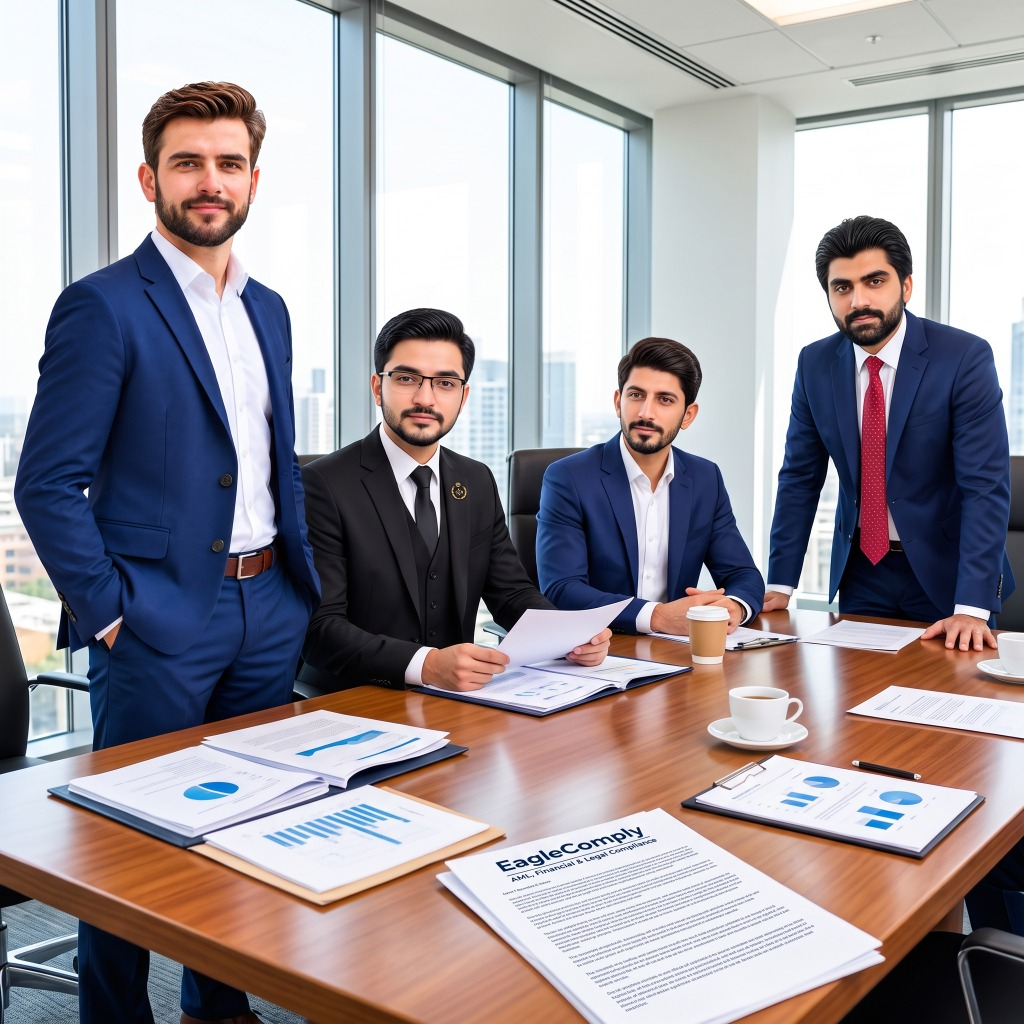
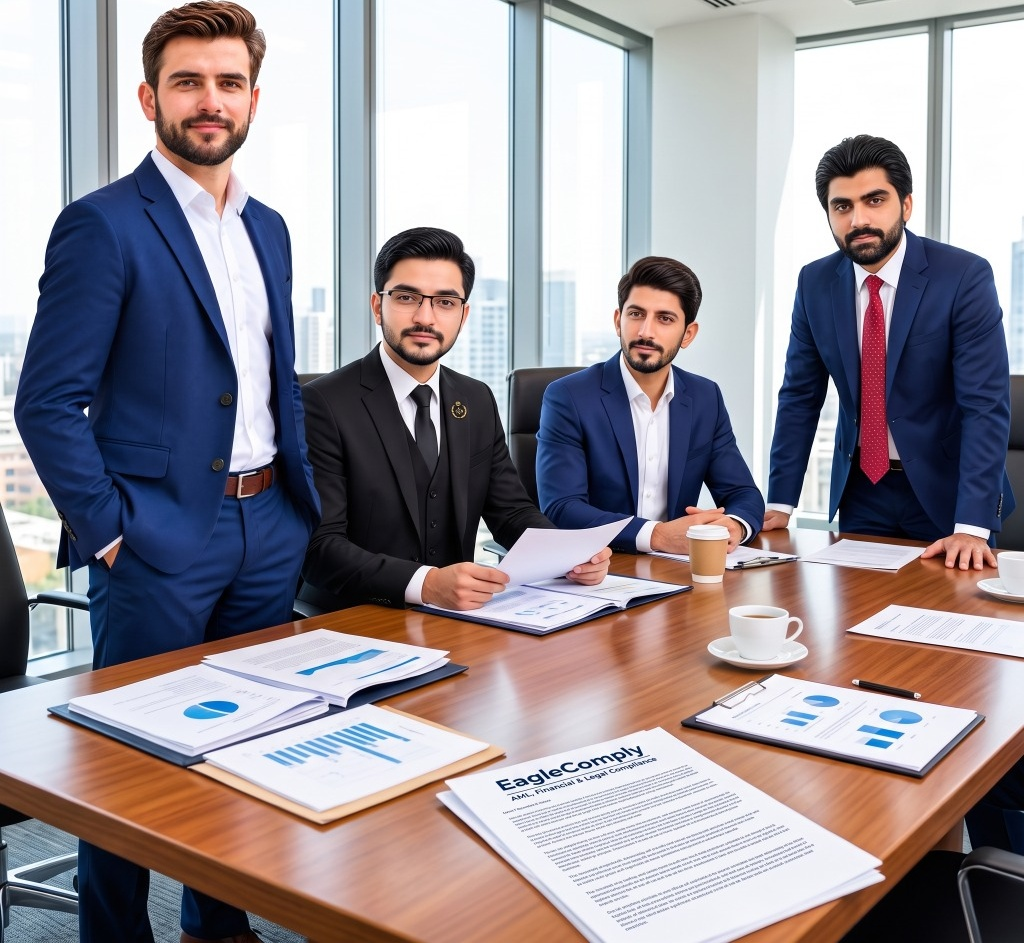
feat(team): update hero section with full-width boardroom background and optimized framing

diff --git a/src/pages/public/TeamPage.jsx b/src/pages/public/TeamPage.jsx
@@ -30,79 +30,36 @@ export default function TeamPage({ onNavigate, onOpenConsultation }) {
   return (
     <div className="w-full space-y-16 animate-fade-in">
       
-      {/* 1. Executive Hero Header with Team Boardroom Portrait */}
-      <section className="relative pt-6 pb-10 sm:pb-14 lg:pt-8 lg:pb-16 bg-surface-subtle/70 border-b border-surface-border overflow-hidden">
-        <div className="max-w-6xl mx-auto px-4 sm:px-6 lg:px-8">
-          <div className="grid grid-cols-1 lg:grid-cols-12 gap-8 lg:gap-12 items-center">
-            
-            {/* Left Content Column */}
-            <div className="lg:col-span-6 space-y-5 text-left rtl:text-right">
-              <div className="inline-flex items-center gap-2 px-3.5 py-1.5 rounded-full bg-[#334DAF]/10 dark:bg-[#7096D1]/15 text-[#334DAF] dark:text-[#7096D1] text-xs font-mono font-bold tracking-wider uppercase border border-[#334DAF]/20 dark:border-[#7096D1]/30">
-                <Users className="w-3.5 h-3.5" />
-                <span>OUR COMPLIANCE LEADERSHIP</span>
-              </div>
+      {/* 1. Full-Width Edge-to-Edge Background Hero Section */}
+      <section className="relative w-full min-h-[480px] sm:min-h-[540px] lg:min-h-[600px] flex items-center justify-center border-b border-[#1E3778] overflow-hidden">
+        
+        {/* Full-Cover Background Image Layer from Left to Right */}
+        <div className="absolute inset-0 w-full h-full z-0">
+          <img
+            src={`${import.meta.env.BASE_URL}assets/images/team-boardroom.jpg`}
+            alt="EagleComply Senior Practice Directors in Boardroom"
+            className="w-full h-full object-cover object-top"
+          />
+          {/* Executive Backdrop Overlay for Sharp Readable Text and Clear Visibility */}
+          <div className="absolute inset-0 bg-gradient-to-b from-[#091F5C]/80 via-[#091F5C]/45 to-[#091F5C]/85 backdrop-brightness-90" />
+        </div>
 
-              <h1 className="font-sans tracking-tight text-3xl sm:text-4xl lg:text-5xl font-bold text-slate-900 dark:text-white leading-[1.15]">
-                Senior Practice Directors & Regulatory Counsel
-              </h1>
-
-              <p className="text-sm sm:text-base text-slate-600 dark:text-slate-300 leading-relaxed font-normal">
-                Directing multi-jurisdictional AML/CFT frameworks, regulatory licensing, statutory governance, corporate legal opinions, and prudential financial assurance.
-              </p>
-
-              {/* Action Buttons */}
-              <div className="pt-2 flex flex-wrap items-center gap-3">
-                <button
-                  onClick={onOpenConsultation}
-                  className="inline-flex items-center gap-2 px-6 py-3 rounded-xl bg-gradient-to-r from-[#091F5C] to-[#334DAF] dark:from-[#334DAF] dark:to-[#7096D1] text-white dark:text-[#101E42] font-bold text-xs shadow-lg hover:scale-[1.02] active:scale-[0.98] transition-all"
-                >
-                  <Calendar className="w-4 h-4" />
-                  <span>Book Consultation Session</span>
-                </button>
-                <button
-                  onClick={() => onNavigate('solutions')}
-                  className="inline-flex items-center gap-2 px-5 py-3 rounded-xl bg-surface-base border border-surface-border text-slate-800 dark:text-slate-200 hover:border-[#334DAF] font-bold text-xs transition-all shadow-sm"
-                >
-                  <span>Explore Practice Areas</span>
-                  <ArrowRight className="w-4 h-4 rtl:rotate-180" />
-                </button>
-              </div>
-
-              {/* Quick Trust Highlights */}
-              <div className="pt-4 grid grid-cols-3 gap-3 border-t border-surface-border/60">
-                <div>
-                  <div className="text-base sm:text-lg font-bold text-slate-900 dark:text-white font-mono">4 Partners</div>
-                  <div className="text-[11px] text-slate-500 font-mono">Executive Council</div>
-                </div>
-                <div>
-                  <div className="text-base sm:text-lg font-bold text-slate-900 dark:text-white font-mono">FATF</div>
-                  <div className="text-[11px] text-slate-500 font-mono">Aligned Standards</div>
-                </div>
-                <div>
-                  <div className="text-base sm:text-lg font-bold text-slate-900 dark:text-white font-mono">UK · EU · GCC</div>
-                  <div className="text-[11px] text-slate-500 font-mono">Cross-Border Desks</div>
-                </div>
-              </div>
-            </div>
-
-            {/* Right Column: Full Boardroom Team Photo (Uncropped, Perfect Fit) */}
-            <div className="lg:col-span-6 relative">
-              <div className="relative rounded-3xl overflow-hidden glass-panel border border-surface-border shadow-2xl bg-surface-base flex items-center justify-center group p-2 sm:p-3">
-                <img
-                  src={`${import.meta.env.BASE_URL}assets/images/team-boardroom.jpg`}
-                  alt="EagleComply Leadership Team"
-                  className="w-full h-auto max-h-[480px] object-contain object-top rounded-2xl group-hover:scale-[1.01] transition-transform duration-500"
-                />
-                
-                {/* Subtle Live Badge */}
-                <div className="absolute top-5 left-5 rtl:left-auto rtl:right-5 px-3 py-1 rounded-full bg-black/60 backdrop-blur-md border border-white/10 text-white text-[10px] font-mono flex items-center gap-2 pointer-events-none">
-                  <span className="w-2 h-2 rounded-full bg-emerald-400 animate-ping" />
-                  <span className="font-bold">EXECUTIVE BOARDROOM</span>
-                </div>
-              </div>
-            </div>
-
+        {/* Hero Content in the Middle of Hero Section */}
+        <div className="relative z-10 max-w-4xl mx-auto px-4 sm:px-6 lg:px-8 py-16 sm:py-20 text-center space-y-4">
+          
+          <div className="inline-flex items-center gap-2 px-4 py-1.5 rounded-full bg-white/20 backdrop-blur-md text-white text-xs font-mono font-bold tracking-wider uppercase border border-white/30 shadow-lg">
+            <Users className="w-3.5 h-3.5 text-sky-300" />
+            <span>OUR COMPLIANCE LEADERSHIP</span>
           </div>
+
+          <h1 className="font-sans tracking-tight text-3xl sm:text-5xl lg:text-6xl font-extrabold text-white leading-tight drop-shadow-lg">
+            Senior Practice Directors & Regulatory Counsel
+          </h1>
+
+          <p className="text-sm sm:text-base lg:text-lg text-blue-50 font-medium leading-relaxed max-w-2xl mx-auto drop-shadow-md">
+            Directing multi-jurisdictional AML/CFT frameworks, regulatory licensing, statutory governance, corporate legal opinions, and prudential financial assurance.
+          </p>
+
         </div>
       </section>
 
